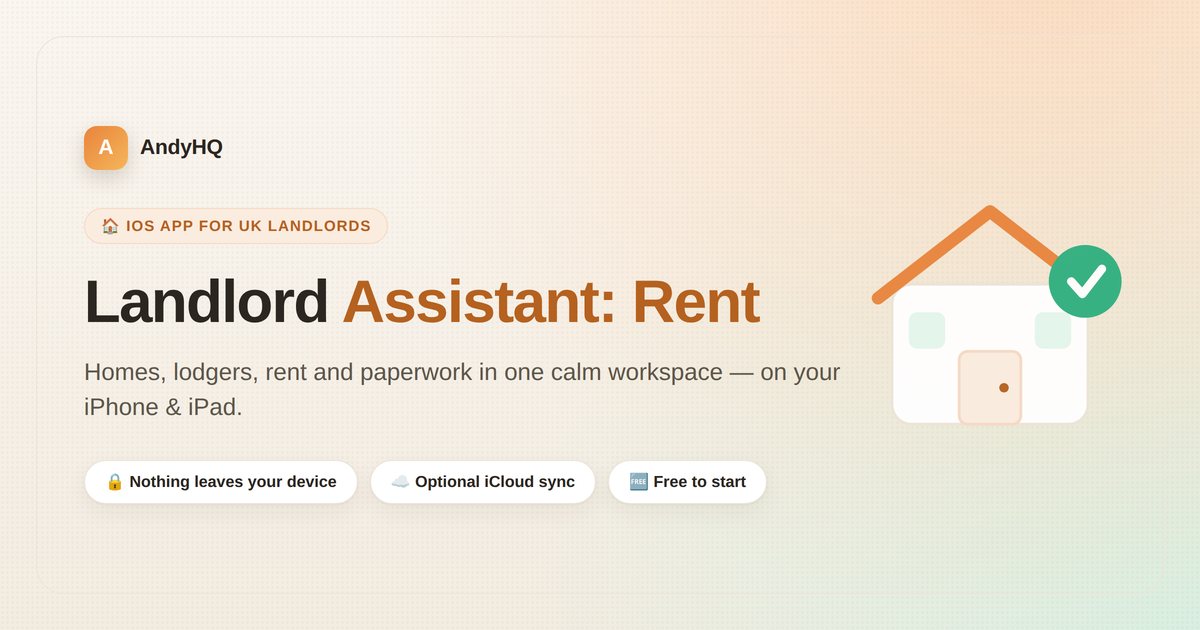
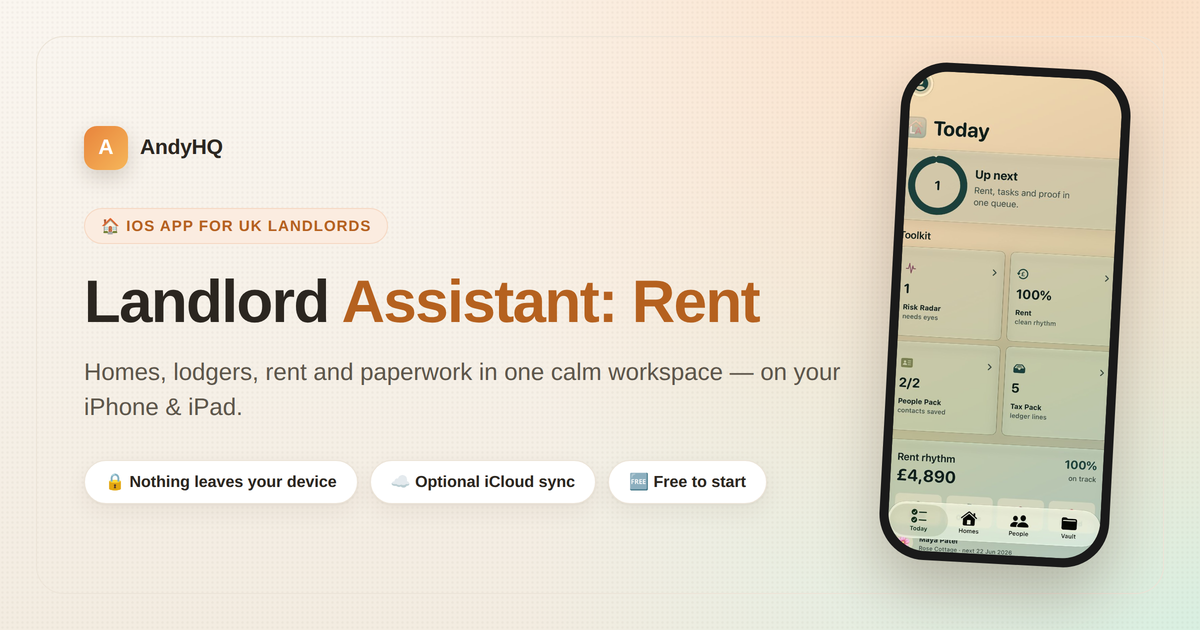
Replace illustrated mock-ups with real app screenshots
- Hero now shows the actual Today screen in a phone frame instead of
  the illustrated card
- New 'See it in action' gallery: Homes, People, Rent rhythm, Vault
- OG/social image rebuilt with a real screenshot
- Feature grid copy updated to the app's actual section names (Homes,
  People, Rent rhythm, Vault, Risk Radar) now that screenshots confirm
  them, and the Vault FAQ answer names the specific checklist items
  (Right to Rent, gas/electrical safety, smoke & CO alarms) visible
  on screen
- Screenshots cropped to remove a system status-bar overlay, resized
  and compressed for web (~55-110KB each)

Changed region(s): [[0.7092, 0.0905, 0.9558, 0.9651]]

diff --git a/landlord/index.html b/landlord/index.html
@@ -82,7 +82,7 @@
     {
       "@type": "Question",
       "name": "What does Landlord Assistant: Rent do?",
-      "acceptedAnswer": { "@type": "Answer", "text": "It keeps your homes, lodger details, rent records and paperwork in one workspace on iPhone and iPad. You can track active and archived properties, follow your rent rhythm, attach proof and documents, and keep safety and paperwork tasks visible." }
+      "acceptedAnswer": { "@type": "Answer", "text": "It keeps your homes, lodger details, rent records and paperwork in one workspace on iPhone and iPad. You can track active and archived properties, follow your rent rhythm (early, on time, late or missed), and keep Vault items like Right to Rent checks, gas and electrical safety, and smoke and CO alarms filed with proof." }
     },
     {
       "@type": "Question",
@@ -142,25 +142,22 @@
   .ll-pill{display:inline-flex;align-items:center;gap:6px;font-size:13.5px;font-weight:650;color:#5d564b;
     background:#fff;border:1px solid var(--line);border-radius:99px;padding:7px 14px}
 
-  /* hero mock card */
+  /* hero phone frame (real screenshot) */
   .ll-mock-wrap{display:flex;justify-content:center}
-  .ll-mock{width:280px;background:#fff;border-radius:22px;border:1px solid var(--line);box-shadow:0 4px 10px rgba(60,40,20,.06),0 30px 60px rgba(60,40,20,.12);
-    padding:20px;animation:llFloat 6s ease-in-out infinite}
+  .ll-phone{width:260px;background:#15140f;border-radius:42px;padding:9px;box-shadow:0 4px 10px rgba(60,40,20,.08),0 36px 70px rgba(60,40,20,.22);
+    animation:llFloat 6s ease-in-out infinite}
+  .ll-phone img{display:block;width:100%;border-radius:34px}
   @keyframes llFloat{0%,100%{transform:translateY(0)}50%{transform:translateY(-8px)}}
-  @media (prefers-reduced-motion:reduce){.ll-mock{animation:none}}
-  .ll-mock-row{display:flex;align-items:center;justify-content:space-between;margin-bottom:14px}
-  .ll-mock-home{display:flex;align-items:center;gap:10px;font-weight:760;font-size:14.5px;color:var(--ink)}
-  .ll-mock-home .ic{width:34px;height:34px;border-radius:10px;background:#e4f6ee;display:grid;place-items:center;font-size:16px}
-  .ll-mock-tag{font-size:11px;font-weight:700;color:var(--muted);background:#f5efe5;border-radius:99px;padding:3px 9px}
-  .ll-mock-person{display:flex;align-items:center;gap:10px;background:var(--bg);border-radius:13px;padding:10px 12px;margin-bottom:10px}
-  .ll-mock-avatar{width:30px;height:30px;border-radius:50%;background:linear-gradient(135deg,var(--accent),#f6b65a);color:#fff;
-    display:grid;place-items:center;font-size:12px;font-weight:700;flex:none}
-  .ll-mock-name{font-size:13px;font-weight:700;color:var(--ink)}
-  .ll-mock-status{margin-left:auto;font-size:11px;font-weight:700;color:#b07d06;background:#fff7da;border-radius:99px;padding:3px 9px}
-  .ll-mock-check{display:flex;align-items:center;gap:8px;font-size:12.5px;color:#5d564b;padding:5px 2px}
-  .ll-mock-check .dot{width:16px;height:16px;border-radius:50%;display:grid;place-items:center;font-size:9px;flex:none}
-  .ll-mock-check.done .dot{background:#2faf7e;color:#fff}
-  .ll-mock-check.todo .dot{background:#f0e9dc;color:transparent}
+  @media (prefers-reduced-motion:reduce){.ll-phone{animation:none}}
+
+  /* gallery */
+  .ll-gallery{display:flex;gap:18px;overflow-x:auto;padding:6px 2px 14px;scroll-snap-type:x proximity;-webkit-overflow-scrolling:touch}
+  .ll-gallery::-webkit-scrollbar{height:6px}
+  .ll-gallery::-webkit-scrollbar-thumb{background:var(--line);border-radius:99px}
+  .ll-gitem{flex:none;width:182px;scroll-snap-align:start;text-align:center}
+  .ll-gitem .ll-phone{width:182px;border-radius:32px;padding:7px;animation:none}
+  .ll-gitem .ll-phone img{border-radius:25px}
+  .ll-gitem p{margin:12px 0 0;font-size:13.5px;font-weight:700;color:var(--ink)}
 
   /* feature grid */
   .ll-grid{display:grid;grid-template-columns:repeat(auto-fit,minmax(260px,1fr));gap:16px}
@@ -262,21 +259,8 @@
         </div>
       </div>
 
-      <div class="ll-mock-wrap" aria-hidden="true">
-        <div class="ll-mock">
-          <div class="ll-mock-row">
-            <div class="ll-mock-home"><span class="ic">🏠</span> 14 Maple Street</div>
-            <span class="ll-mock-tag">Active</span>
-          </div>
-          <div class="ll-mock-person">
-            <span class="ll-mock-avatar">JD</span>
-            <span class="ll-mock-name">Jess D. — Room 2</span>
-            <span class="ll-mock-status">Rent due Fri</span>
-          </div>
-          <div class="ll-mock-check done"><span class="dot">✓</span> Tenancy agreement attached</div>
-          <div class="ll-mock-check done"><span class="dot">✓</span> Smoke alarm checked</div>
-          <div class="ll-mock-check todo"><span class="dot"></span> Deposit protected</div>
-        </div>
+      <div class="ll-mock-wrap">
+        <div class="ll-phone"><img src="/landlord/ss/today.jpg" alt="Landlord Assistant: Rent — Today screen showing Risk Radar, rent rhythm and tax pack" width="260" height="526" loading="eager"></div>
       </div>
     </div>
   </div>
@@ -292,33 +276,49 @@
         <div class="ll-card">
           <div class="ic">🏠</div>
           <h3>Homes</h3>
-          <p>Track active and archived properties, so past lets stay on record without cluttering your current view.</p>
+          <p>Active and archived properties, with gas, electrical and safety status visible at a glance.</p>
         </div>
         <div class="ll-card">
           <div class="ic">👥</div>
-          <h3>Lodgers &amp; people</h3>
-          <p>Keep lodger and tenant details together with the home they're linked to — no separate contacts app needed.</p>
+          <h3>People</h3>
+          <p>Lodgers and tenants linked to the right home, with next-of-kin contacts saved alongside them.</p>
         </div>
         <div class="ll-card">
-          <div class="ic">📅</div>
+          <div class="ic">💷</div>
           <h3>Rent rhythm</h3>
-          <p>Follow rent records over time, so it's easy to see what's been paid and what's coming up.</p>
+          <p>Every payment marked early, on time, late or missed, with expected vs. recorded amounts side by side.</p>
         </div>
         <div class="ll-card">
-          <div class="ic">📎</div>
-          <h3>Paperwork &amp; proof</h3>
-          <p>Attach documents and keep proof against the right home or person, instead of a folder of unsorted PDFs.</p>
+          <div class="ic">🗂</div>
+          <h3>Vault</h3>
+          <p>Right to Rent checks, gas safety, electrical safety, smoke &amp; CO alarms and furniture fire safety — filed with proof.</p>
         </div>
         <div class="ll-card">
-          <div class="ic">✅</div>
-          <h3>Safety checklists</h3>
-          <p>Keep key safety and paperwork tasks visible, so nothing important quietly slips past its date.</p>
+          <div class="ic">📡</div>
+          <h3>Risk Radar</h3>
+          <p>Surfaces what needs your attention first, instead of leaving you to remember it all yourself.</p>
         </div>
         <div class="ll-card">
           <div class="ic">🔒</div>
           <h3>Privacy by design</h3>
           <p>No data collected, no third-party advertising SDKs. Your records are yours.</p>
         </div>
+      </div>
+    </div>
+  </div>
+
+  <!-- SCREENSHOT GALLERY -->
+  <div class="ll-band alt">
+    <div class="ll-inner">
+      <p class="ll-kicker">See it in action</p>
+      <h2 class="ll-h2">What it actually looks like</h2>
+      <p class="ll-sub">No stock photos — these are real screens from the app.</p>
+
+      <div class="ll-gallery">
+        <div class="ll-gitem"><div class="ll-phone"><img src="/landlord/ss/homes.jpg" alt="Homes tab showing active properties with safety status" width="182" height="368" loading="lazy"></div><p>Homes</p></div>
+        <div class="ll-gitem"><div class="ll-phone"><img src="/landlord/ss/people.jpg" alt="People tab showing lodgers and tenants with rent amounts" width="182" height="368" loading="lazy"></div><p>People</p></div>
+        <div class="ll-gitem"><div class="ll-phone"><img src="/landlord/ss/rent.jpg" alt="Rent rhythm screen showing early, on time, late and missed payments" width="182" height="368" loading="lazy"></div><p>Rent rhythm</p></div>
+        <div class="ll-gitem"><div class="ll-phone"><img src="/landlord/ss/vault.jpg" alt="Vault screen showing filed safety and compliance documents" width="182" height="368" loading="lazy"></div><p>Vault</p></div>
       </div>
     </div>
   </div>
@@ -419,7 +419,7 @@
       <div class="ll-faq-list">
         <details class="ll-faq">
           <summary>What does Landlord Assistant: Rent do? <span class="chev">⌄</span></summary>
-          <p>It keeps your homes, lodger details, rent records and paperwork in one workspace on iPhone and iPad. You can track active and archived properties, follow your rent rhythm, attach proof and documents, and keep safety and paperwork tasks visible.</p>
+          <p>It keeps your homes, lodger details, rent records and paperwork in one workspace on iPhone and iPad. You can track active and archived properties, follow your rent rhythm (early, on time, late or missed), and keep Vault items like Right to Rent checks, gas and electrical safety, and smoke and CO alarms filed with proof.</p>
         </details>
         <details class="ll-faq">
           <summary>Is Landlord Assistant: Rent free? <span class="chev">⌄</span></summary>
